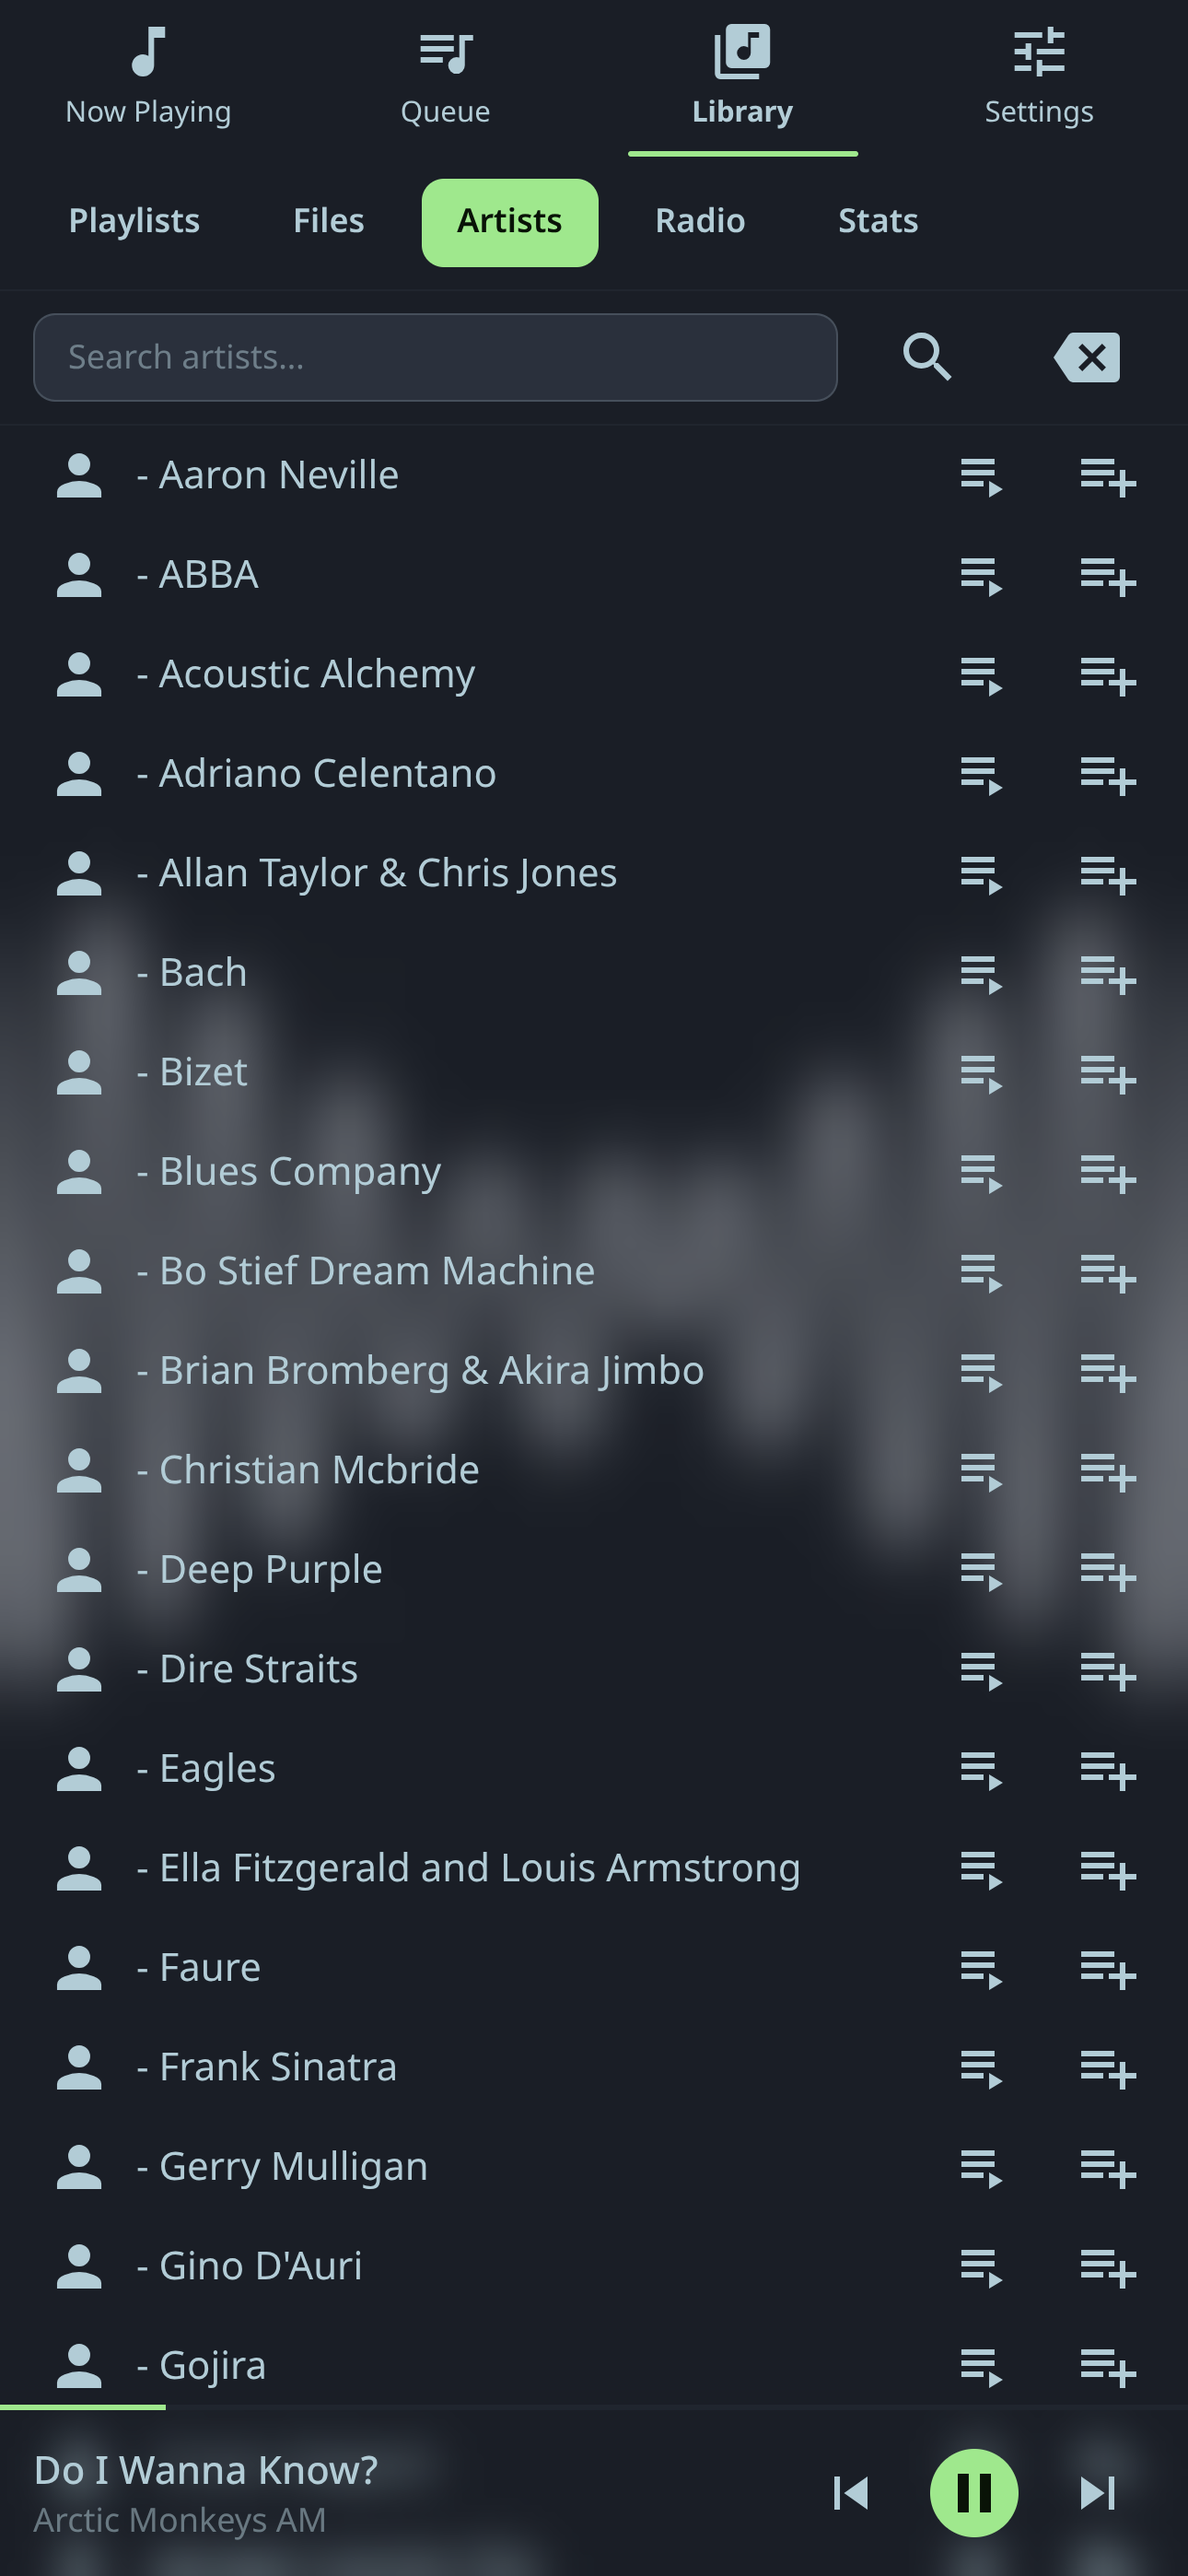
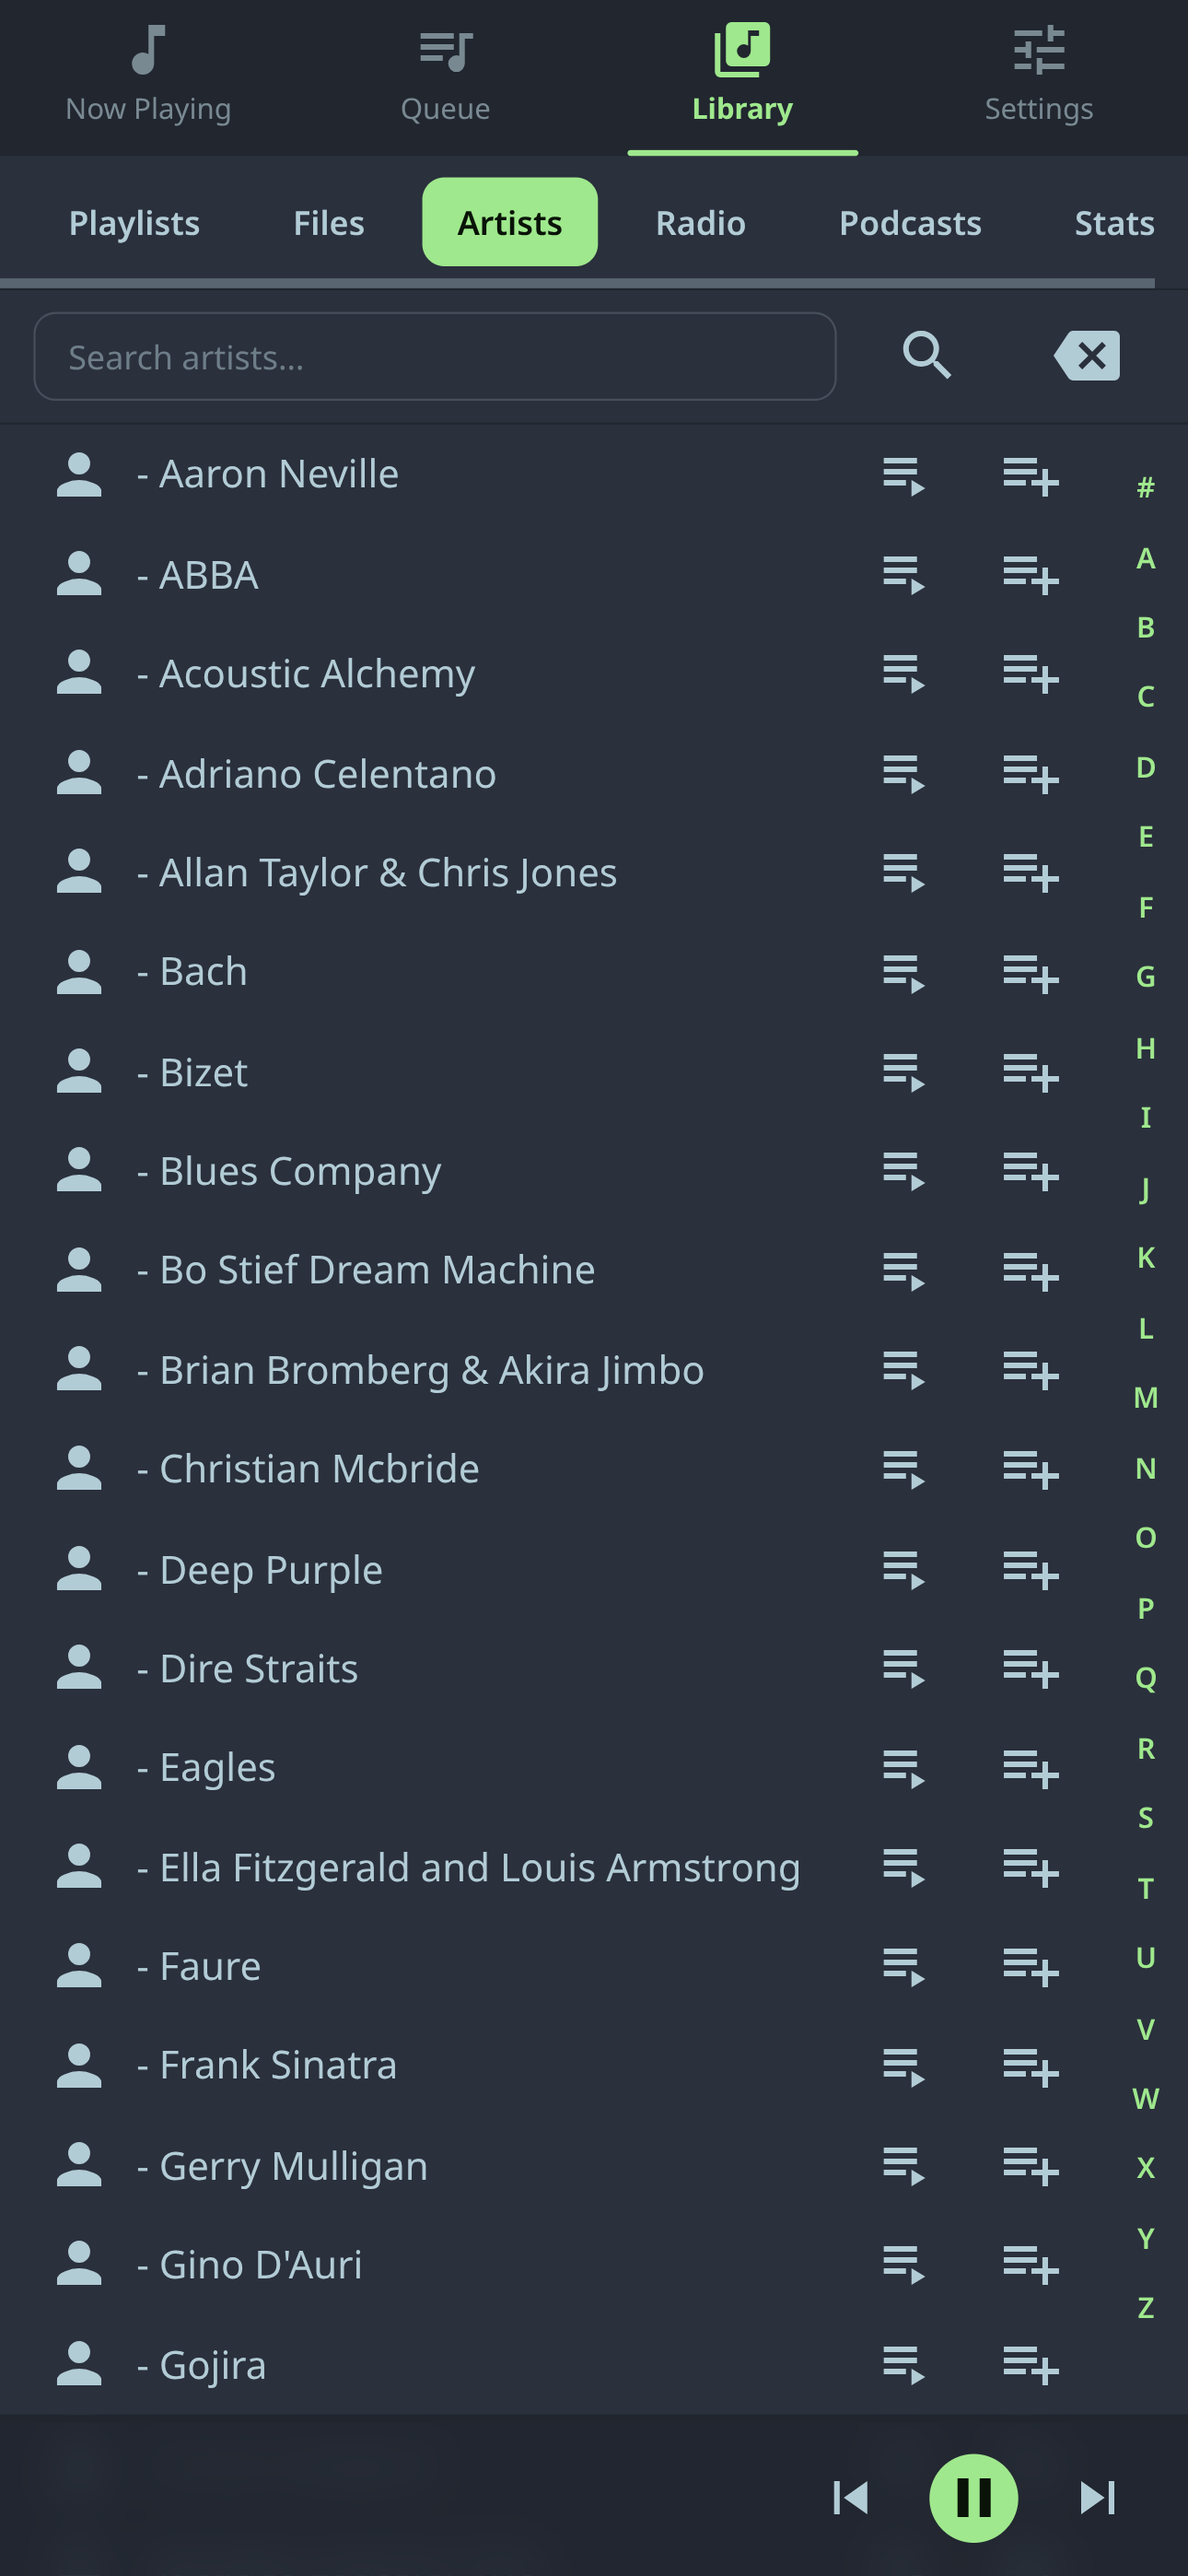
Refactor code structure for improved readability and maintainability

diff --git a/docs/usage.md b/docs/usage.md
@@ -192,10 +192,13 @@ Manage internet radio streams.
 - Play radio streams directly
 
 ### Podcasts View
-
 Subscribe to podcasts and listen to episodes; RSPlayer remembers where you stopped.
 
+![Subscriptions list](/_assets/podcasts_subscriptions.png)
+
 **Subscriptions** shows your shows as a grid, with a badge for unplayed episodes. Open a show to see its episodes newest-first with date, length and time left. Tap a title to expand the show notes. Each episode offers:
+
+![Episode list](/_assets/podcasts_episodes.png)
 
 - **Play** (resumes a started episode where you left off)
 - **Play next** / **Add to queue**

diff --git a/README.md b/README.md
@@ -18,7 +18,7 @@ RSPlayer is an open-source music player written in Rust. Run it as a **headless 
 
 🎧 **[Online demo](https://demo.rsplayer.de)** · 📖 **[Documentation](https://ljufa.github.io/rsplayer/)** · ⬇ **[Latest release](https://github.com/ljufa/rsplayer/releases/latest)**
 
-https://github.com/user-attachments/assets/88ba2a8e-a016-49e9-81f0-12ce53ce4ecb
+https://github.com/user-attachments/assets/7cf6ef93-2251-4f85-a1cb-be5865a257d5
 
 ## Highlights
 
